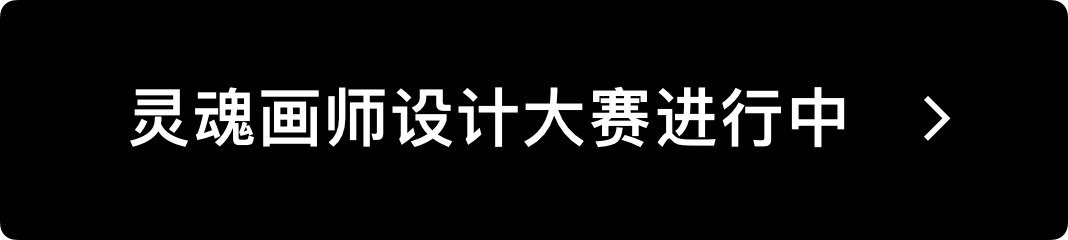
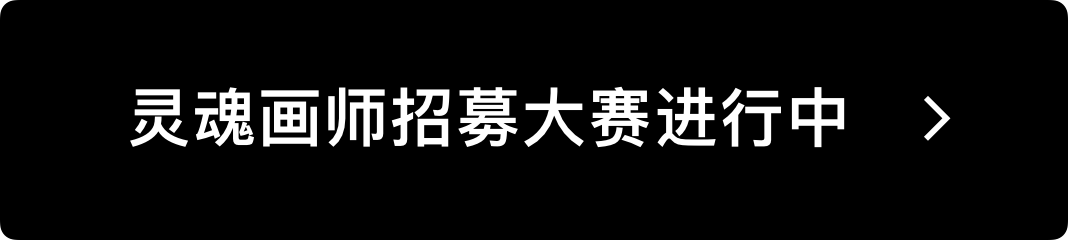
update wordings and pic

Changed region(s): [[0.3399, 0.35, 0.4944, 0.6125]]

diff --git a/event.html b/event.html
@@ -1,6 +1,6 @@
 <!DOCTYPE html>
 <!--  This site was created in Webflow. http://www.webflow.com  -->
-<!--  Last Published: Fri Apr 27 2018 20:01:38 GMT+0000 (UTC)  -->
+<!--  Last Published: Sat Apr 28 2018 17:59:44 GMT+0000 (UTC)  -->
 <html data-wf-page="5ae35263aca8ed780b421747" data-wf-site="5aa8d73ceabaa451647fecf8">
 <head>
   <meta charset="utf-8">
@@ -26,7 +26,7 @@
   <div class="header-section">
     <div class="w-container">
       <a href="#" class="blog-home-link w-inline-block">
-        <h1 class="blog-name">灵魂画师设计大赛</h1>
+        <h1 class="blog-name">灵魂画师招募大赛</h1>
       </a>
       <div class="navigation-bar"><a href="index.html" class="nav-link">&lt; 返回首页</a></div>
     </div>
@@ -34,19 +34,22 @@
   <div class="section-2">
     <div class="about-content">
       <h3>说明</h3>
-      <p>活动比赛优胜者最高奖金 1 万元。<br><br>参赛设计师请从以下指定的「权力的游戏」影视角色中，任选 4 男 4 女，根据剧中造型绘制成卡通肖像。</p><img src="images/GOT-Copy.jpg" id="rules" width="1000" srcset="images/GOT-Copy.jpg 1080w, images/GOT-Copy.jpg 1600w, images/GOT-Copy.jpg 2000w" sizes="(max-width: 479px) 93vw, (max-width: 767px) 95vw, 550px">
-      <h3>要求</h3>
-      <p class="paragraph-5">1. 必须从指定角色范围进行创作；<br>2. 统一使用半身正面造型，如能额外完成更多角度可加分；<br>3. 作品风格必须统一且复用性强，角色特征捕捉到位；<br>4. 必须以 Sketch 或 Illustrator 软件绘制矢量图像，如有特殊情况可提前沟通否则不接受其它软件，必须提交源文件，我们会考察细节；<br>5. 允许一人投多份稿件，但不接受组队（我们只签约个人设计师）；<br>6. 你必须承诺作品为原创且不侵权，随稿件一同提交版权声明签字。</p>
-      <h3>评选</h3>
-      <p>1. 我们选出最认可的十份作品，头三名每份奖金一万元，另七名每份奖金三千元。<br>2. 我们会邀请优秀或有潜力的参赛者成为签约设计师，广州邻近地区优先。<br>3. 保留活动的最终解释权。</p>
-      <h3>投稿及联系方式</h3>
+      <p>好的作品，能取悦自己，亦能启发别人。<br>我们在寻找，能简洁直观地表达出人物魅力的“灵魂画师”。<br><br>前 10 名优胜者，最高可获致敬奖金 1 万元。<br><br>现在拿起笔，刻画灵魂吧。</p>
+      <h3>角色题材</h3>
+      <p>请从下图指定的美剧「权力的游戏」角色中，任选 4 男 4 女，绘制成能体现各人特征的卡通肖像。</p><img src="images/GOT-Copy.jpg" id="rules" width="1000" srcset="images/GOT-Copy-p-1080.jpeg 1080w, images/GOT-Copy-p-1600.jpeg 1600w, images/GOT-Copy.jpg 2000w" sizes="(max-width: 479px) 93vw, (max-width: 767px) 95vw, 550px">
+      <h3>评选标准</h3>
+      <p>1. 作品风格统一；<br>2. 元素复用性强；<br>3. 角色特征捕捉到位。</p>
+      <h3>格式要求</h3>
+      <p class="paragraph-5">1. 从指定角色范围进行创作；<br>2. 统一使用半身正面造型，如能额外完成更多角度可加分；<br>3. 以 Sketch 或 Adobe Illustrator 软件绘制矢量图像。请提交源文件，我们会考察细节；<br>4. 一人可投多份稿件，但不接受组队；<br>5. 请随稿件提交版权声明签字。</p>
+      <h3>奖项设置</h3>
+      <p>1. 三名优胜画师，为每人颁发 10,000 元奖金；<br>2. 七名优秀画师，为每人颁发 3,000 元奖金；<br>3. 有机会获邀成为我们的签约设计师。</p>
+      <h3>投稿方式</h3>
       <p>1. 请下载文档<a target="_blank" href="documents/【早安科技】v2-版权授权函（公司v作者）-20180427.docx" class="link-8">《版权承诺及授权函》</a>打印并签署，扫描电子版随作品一同提交。<br>2. 请于邮件标题注明参赛信息，并在正文附带个人简介。<br><span class="text-span"><span class="text-span-2">3. 投稿邮箱 <span class="text-span-3">hi@sunday37.com</span></span>
         </span>
       </p>
       <h3>时间</h3>
       <p>投稿启动：2018年5月1日<br>投稿截止：2018年5月18日 20:00<br>项目评选：2018年5月21日 周一<br>结果公布：2018年5月28日 周一</p>
-      <h3>版权须知</h3>
-      <p>1. 参赛者提交给主办方的作品，均须未被商用或授权他人使用，必须为参加者原创，不得抄袭、盗用他人作品，且版权未移交他人。若在比赛或商业应用过程中发生版权纠纷，其法律责任由参赛者本人承担。<br>2. 参赛者的作品完整版权将转让至主办方公司（或其指定的公司），作者需协助签署《著作权转让协议》。主办方享有对相应设计方案进行再设计、生产、销售、展示、出版等全部权益，作者不得将此权利再次授权任何其他个人或机构。 作者保留对其作品的永久署名权。<br>3. 若参赛者在规定时间内，对获奖通知未做回应，或放弃履行相关版权转让或授权义务，则视为放弃奖项，由其他参赛者取代。<br>4. 活动主办方对本活动保留最终解释权。</p>
+      <p class="paragraph-6">活动主办方对本活动保留最终解释权。</p>
       <div class="div-block-104">
         <div>
           <div class="text-block-66">© 2018 Sunday Morning Inc.</div>

diff --git a/index.html b/index.html
@@ -1,6 +1,6 @@
 <!DOCTYPE html>
 <!--  This site was created in Webflow. http://www.webflow.com  -->
-<!--  Last Published: Fri Apr 27 2018 19:39:53 GMT+0000 (UTC)  -->
+<!--  Last Published: Sat Apr 28 2018 17:59:44 GMT+0000 (UTC)  -->
 <html data-wf-page="5aa8d73ceabaa4fd727fece5" data-wf-site="5aa8d73ceabaa451647fecf8">
 <head>
   <meta charset="utf-8">

diff --git a/css/sunday-morning-jobs.webflow.css b/css/sunday-morning-jobs.webflow.css
@@ -2144,6 +2144,10 @@
   line-height: auto;
 }
 
+.paragraph-6 {
+  margin-top: 50px;
+}
+
 html.w-mod-js *[data-ix="header-load"] {
   display: block;
   opacity: 0;
